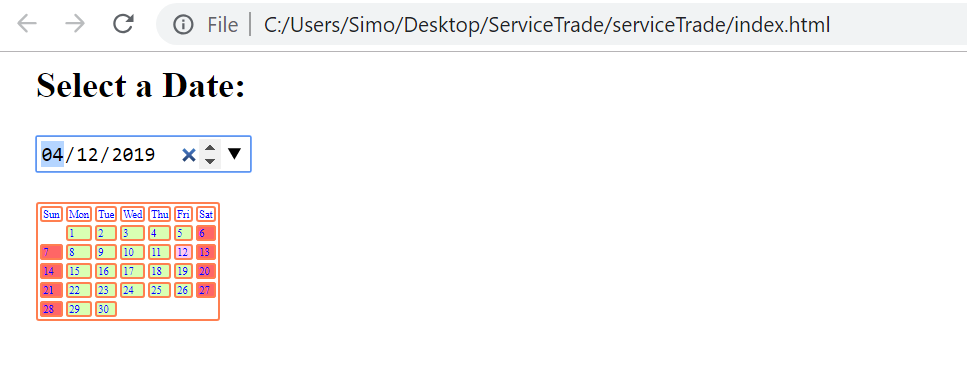
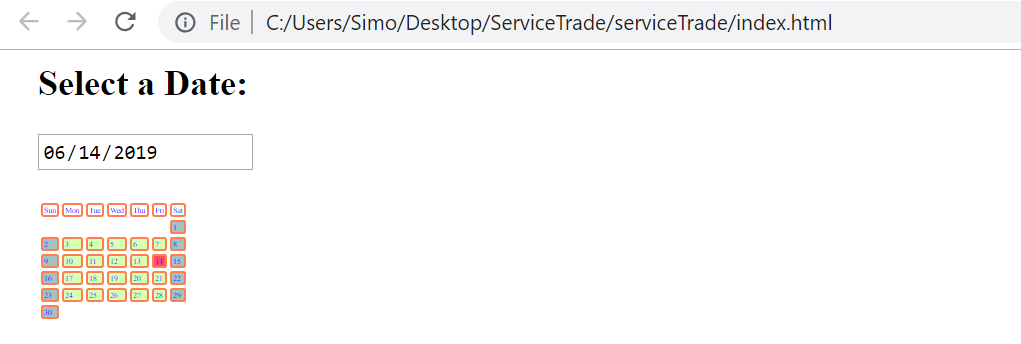
changing td colors

diff --git a/style/styles.css b/style/styles.css
@@ -1,11 +1,11 @@
 .weekend{
-	background-color:#ff6666;
+	background-color:#a3c2c2;
 }
 .business{
 	background-color:#d9ffb3;
 }
 .searched{
-	background-color:#ffccee;
+	background-color:#ff4d4d
 }
 
 .no_border{
@@ -15,10 +15,10 @@
 table {
     margin-left: 20px;
 	position: relative;	
-	font-size: 7px;
+	font-size: 5px;
 }
 
-table, td {
+ td {
   border-radius: 2px;
   border: 1px solid coral;
   color: blue;

diff --git a/index.html b/index.html
@@ -4,7 +4,7 @@
       Calendar
     </title>
     <link rel="stylesheet" href="style/styles.css" />
-    <script src="scripts/myscripts.js"></script>
+    <script src="scripts/scripts.js"></script>
 	<script src="scripts/jQuery.js"></script>
   </head>
   <body>
